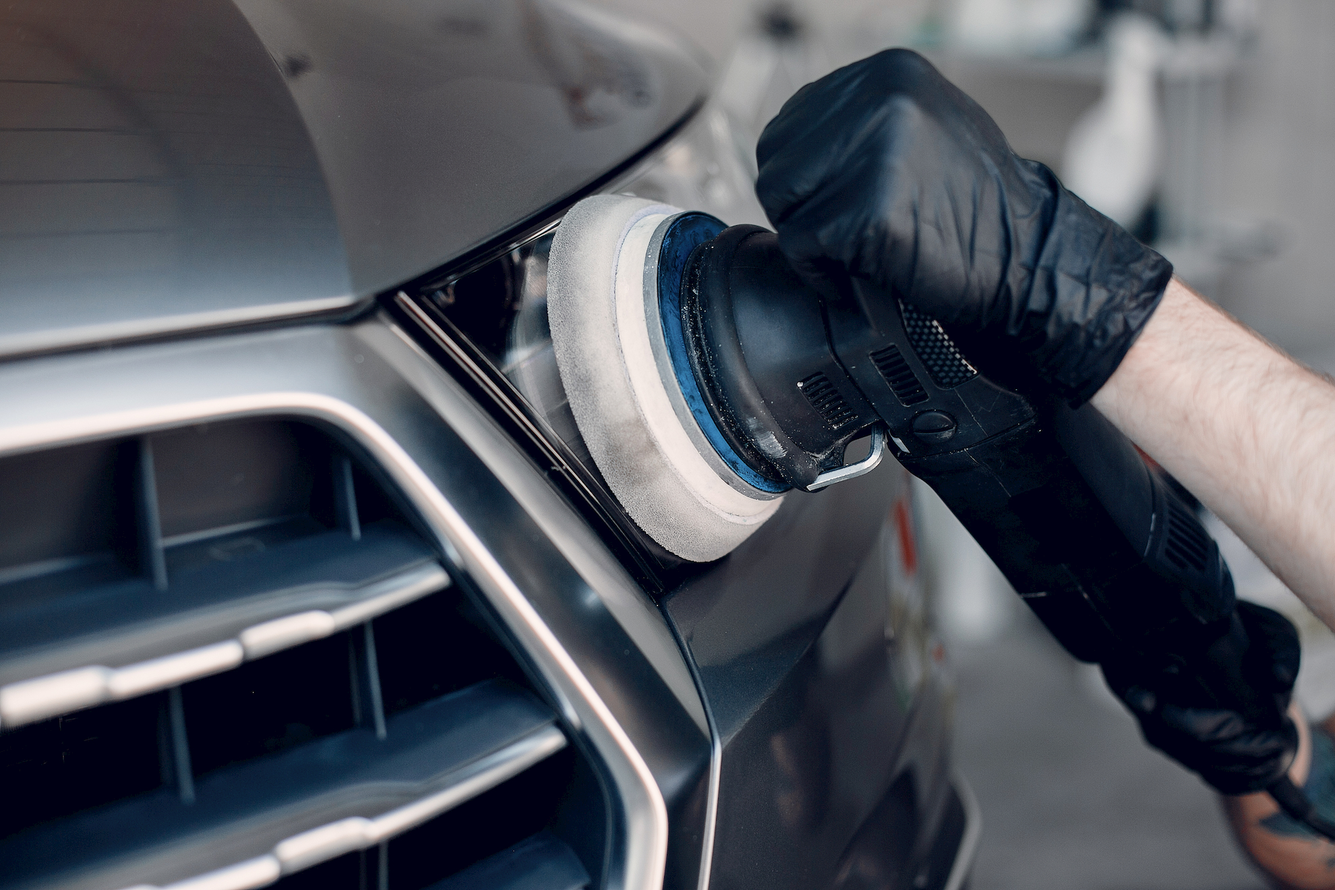
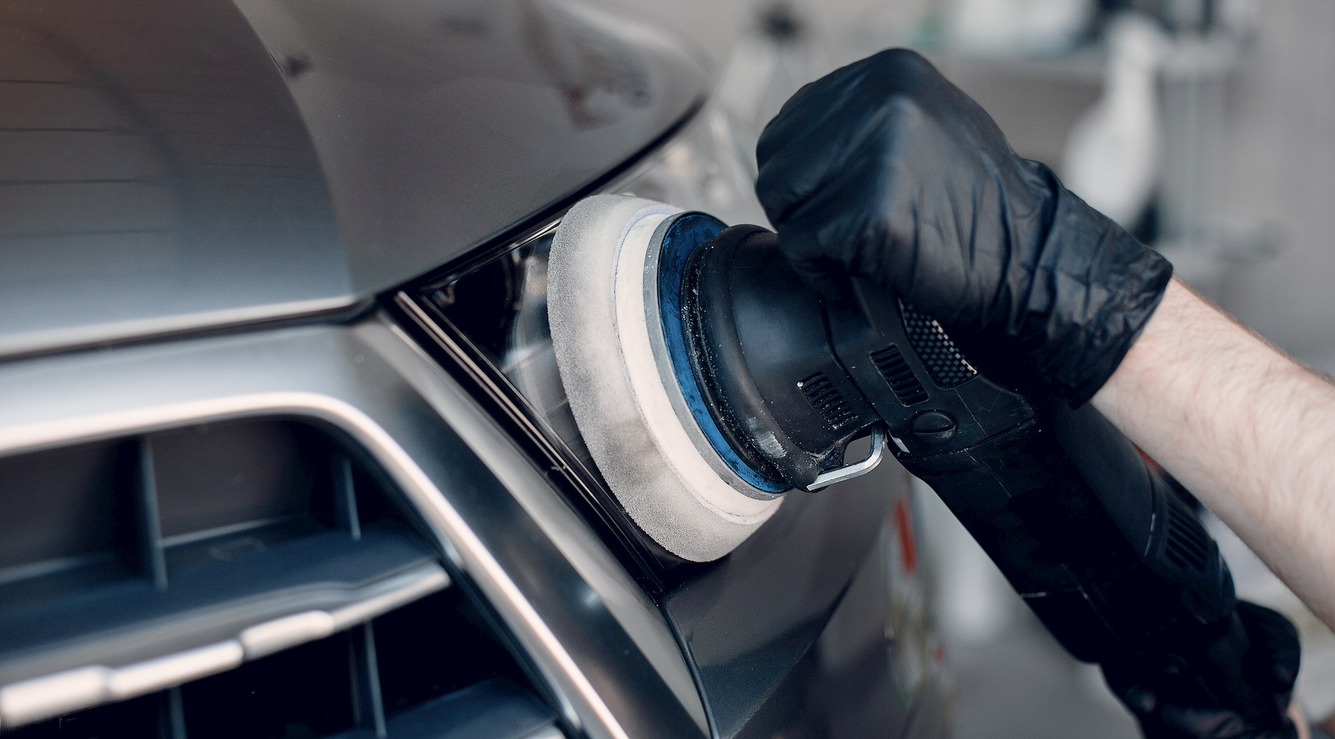
Index: Added services section, modified index columns for mobile, modified image sizes

diff --git a/pages/index.vue b/pages/index.vue
@@ -31,40 +31,90 @@
       ></v-img>
     </v-row>
     <v-row>
-      <v-col cols="6" class="pa-16 blue lighten-5">
-        <h1 class="text-center blue--text mb-8">
+      <v-col cols="12" sm="12" md="6" lg="6" class="pa-16 blue lighten-5">
+        <h1 class="text-center text-h5 text-lg-h4 blue--text mb-4 mb-xl-12">
           ATC Auto Body is a Full-Service Auto Body Repair Shop
         </h1>
-        <p class="text-center text-h5 mb-8">
+        <p class="text-center text-h6 text-xl-h5 mb-xl-12">
           ATC Auto Body and Paint is an owner operated collision repair center
           in the heart of Portland. We offer superior and full repair services.
         </p>
-        <p class="text-center text-h5 mb-8">
+        <p class="text-center text-h6 text-xl-h5 mb-xl-12">
           ATC uses the best equipment and material for repairs as well as
           utilizing the most advanced technologies leaving our customers more
           than satisfied.
         </p>
-        <p class="text-center text-h5 mb-8">
+        <p class="text-center text-h6 text-xl-h5 mb-xl-12">
           Customer satisfaction is our number One priority, so we strive to have
           your vehicle in and out as fast as possible, while maintaining our
           reputation for high quality repairs.
         </p>
       </v-col>
-      <v-col cols="6" class="pa-0">
+      <v-col cols="12" sm="12" md="6" lg="6" class="pa-0">
         <v-img
           :src="require('@/assets/stock-images/front-image-1.jpg')"
+          height="100%"
         ></v-img>
+      </v-col>
+    </v-row>
+    <v-row class="mx-6 mx-md-16 mt-6">
+      <v-col cols="12">
+        <h1 class="text-center blue--text">
+          ATC Autobody &amp; Paint Services
+        </h1>
+      </v-col>
+      <v-col cols="12" sm="12" md="4" lg="4">
+        <div class="text-center mb-6">
+          <v-icon size="96" color="blue darken-2">{{ mdiShieldCar }}</v-icon>
+        </div>
+        <h2 class="text-h5 text-lg-h4 font-weight-bold mb-6">
+          Let us deal work with your insurance.
+        </h2>
+        <p class="text-h6">
+          Shopping for auto repairs can be stressful when your only mode of
+          transporation is broken down. Allow us to provide free estimates and
+          handle insurance claims worry free.
+        </p>
+      </v-col>
+      <v-col cols="12" sm="12" md="4" lg="4">
+        <div class="text-center mb-6">
+          <v-icon size="96" color="red">{{ mdiSpray }}</v-icon>
+        </div>
+        <h2 class="text-h5 text-lg-h4 font-weight-bold mb-6">
+          Restore your vehicle with expert painting.
+        </h2>
+        <p class="text-h6">
+          Our expert painting and color matching will make your car look as good
+          as new. We also provide auto detailing for customization needs.
+        </p>
+      </v-col>
+      <v-col cols="12" sm="12" md="4" lg="4">
+        <div class="text-center mb-6">
+          <v-icon size="96" color="green">{{ mdiHammerWrench }}</v-icon>
+        </div>
+        <h2 class="text-h5 text-lg-h4 font-weight-bold mb-6">
+          Fix any body damage from accidents to crashes.
+        </h2>
+        <p class="text-h6">
+          We excel at paintless dent removals, automotive glass replacement, and
+          uni-body repair and straightening.
+        </p>
       </v-col>
     </v-row>
   </div>
 </template>
 
 <script>
+import { mdiShieldCar, mdiSpray, mdiHammerWrench } from '@mdi/js'
+
 export default {
   data() {
     return {
       brandHeight: 150,
       images: [],
+      mdiShieldCar,
+      mdiSpray,
+      mdiHammerWrench,
     }
   },
   mounted() {
